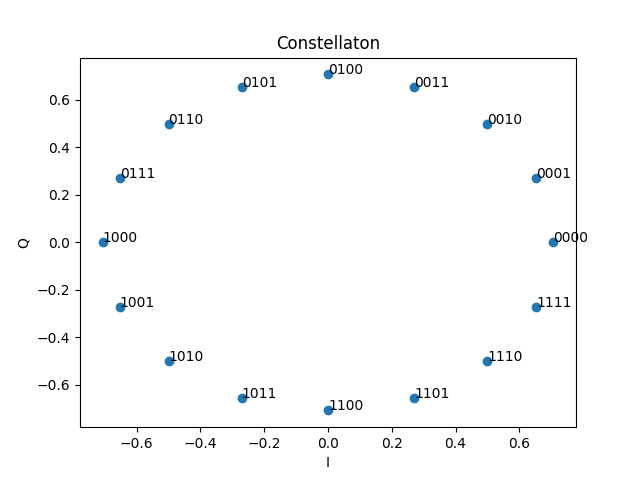
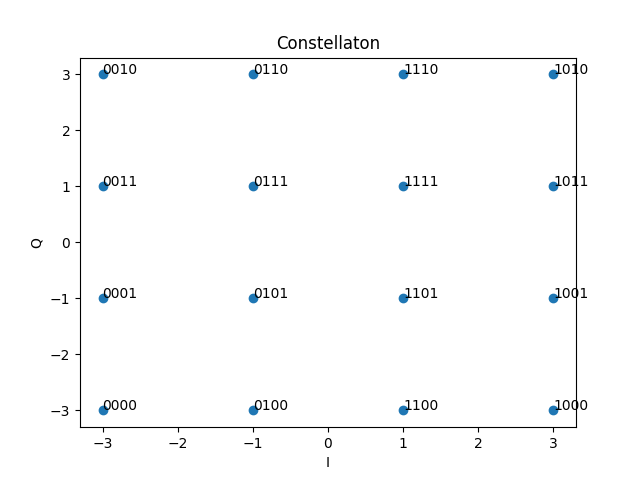
saving

diff --git a/ch3_demo_scripts.py b/ch3_demo_scripts.py
@@ -1,20 +1,20 @@
 def modem_demo():
 
     import numpy as np
-    from modem import PSKModem
+    from modem import PSKModem, QAMModem
 
     M = 16 # 16 points in the constellation
-    pskModem = PSKModem(M) # Create a 16-PSK modem object
-    pskModem.plotConstellation() # Plot ideal constellation for this modem
+    qamModem = QAMModem(M) # Create a 16-PSK modem object
+    qamModem.plotConstellation() # Plot ideal constellation for this modem
 
     nSym = 10 # 10 symbols as input to PSK modem
     inputSyms = np.random.randint(low=0, high=M, size=nSym) # Uniform random symbols from 0 to M-1
     print('inputSyms: ' + str(inputSyms))
 
-    modulatedSyms = pskModem.modulate(inputSyms) # Modulate
+    modulatedSyms = qamModem.modulate(inputSyms) # Modulate
     print('modulatedSyms: ' + str(modulatedSyms))
 
-    detectedSyms = pskModem.demodulate(modulatedSyms) # Demodulate
+    detectedSyms = qamModem.demodulate(modulatedSyms) # Demodulate
     print('detectedSyms: ' + str(detectedSyms))
 
 modem_demo()
